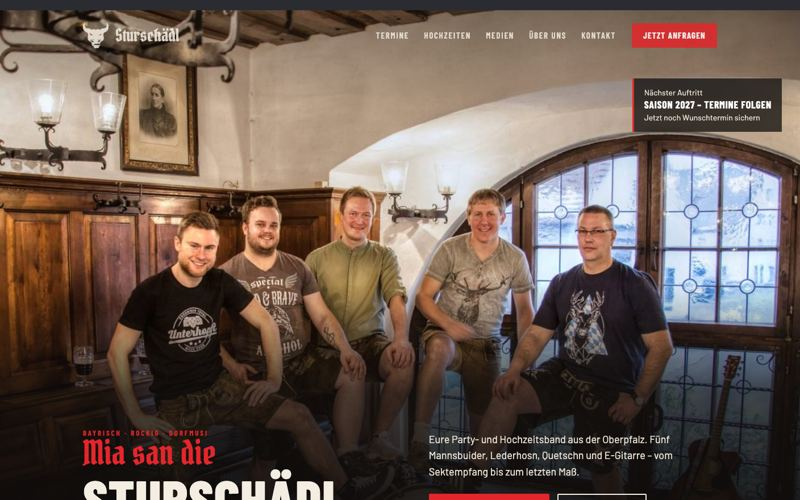
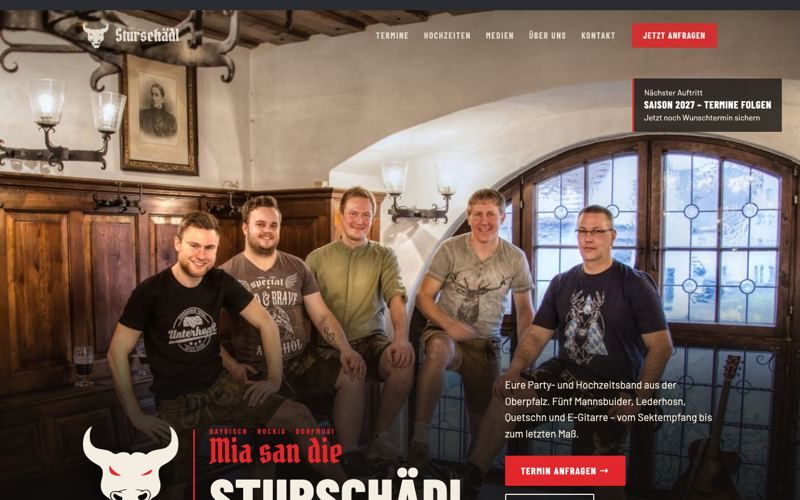
Entwurf 1: Stierschädel als Marken-Lockup neben dem Schriftzug

Changed region(s): [[0.0938, 0.75, 0.9062, 1.0]]

diff --git a/quelle/sturschaedl-mockups.html b/quelle/sturschaedl-mockups.html
@@ -68,12 +68,16 @@ section{padding:96px 0}
 .hero .bg{position:absolute;inset:0;background-size:cover;background-position:center 12%}
 .hero .bg::after{content:"";position:absolute;inset:0;background:linear-gradient(180deg,rgba(15,13,12,.35) 0%,rgba(15,13,12,0) 18%,rgba(15,13,12,0) 50%,rgba(15,13,12,.75) 70%,#0f0d0c 100%)}
 .hero .wrap{position:relative;padding-bottom:56px;width:100%}
-.hero-grid{display:grid;grid-template-columns:1.05fr .95fr;gap:48px;align-items:end}
+.hero-grid{display:grid;grid-template-columns:auto 1fr;gap:56px;align-items:end}
 .hero h1{font-size:clamp(48px,7cqi,96px)}
 .hero h1 .fr{display:block;font-size:.6em;color:var(--red);line-height:1;margin-bottom:4px}
 .hero p.lead{font-size:18px;max-width:520px;margin:0 0 24px;color:#e9e1d1}
 .hero .cta{display:flex;gap:14px;flex-wrap:wrap}
 .hero .bull{display:none}
+/* Marken-Lockup: Stierschädel + Schriftzug, sitzt unter den Gesichtern */
+.lockup{display:flex;align-items:center;gap:26px}
+.lockup .emb{width:clamp(110px,12cqi,168px);flex:none;filter:drop-shadow(0 14px 30px rgba(0,0,0,.75))}
+.lockup .rule{width:3px;align-self:stretch;margin:6px 0;background:var(--red);flex:none}
 .next-gig{position:absolute;right:32px;top:120px;background:rgba(15,13,12,.75);backdrop-filter:blur(6px);border-left:3px solid var(--red);padding:14px 18px;font-size:14px;color:#e9e1d1}
 .next-gig strong{display:block;font:700 18px/1.2 "Barlow Condensed";text-transform:uppercase;color:#fff;letter-spacing:.04em}
 
@@ -212,6 +216,7 @@ form.f{display:grid;grid-template-columns:1fr 1fr;gap:16px;background:var(--card
   .next-gig{margin:14px 18px 0;top:auto}
   .hero .bg::after{background:linear-gradient(180deg,rgba(15,13,12,.5) 0%,rgba(15,13,12,0) 25%,rgba(15,13,12,0) 75%,#0f0d0c 100%)}
   .hero-grid{grid-template-columns:1fr;gap:20px}
+  .lockup{gap:14px}.lockup .emb{width:78px}.lockup .rule{width:2px}
   .hero p.lead{font-size:17px}
   .hero .wrap{padding:6px 18px 48px}
   .next-gig{position:relative;right:auto;top:auto;margin-top:22px}
@@ -302,9 +307,13 @@ form.f{display:grid;grid-template-columns:1fr 1fr;gap:16px;background:var(--card
     <div class="bg" style="background-image:url(assets/band-wirtshaus.jpg)"></div>
     <div class="next-gig">Nächster Auftritt<strong>Saison 2027 – Termine folgen</strong>Jetzt noch Wunschtermin sichern</div>
     <div class="wrap"><div class="hero-grid">
-      <div>
-        <div class="kicker">Bayrisch · Rockig · Dorfmusi</div>
-        <h1><span class="fr">Mia san die</span>Sturschädl</h1>
+      <div class="lockup">
+        <img class="emb" src="assets/bulle-hell.png" alt="Sturschädl-Stier">
+        <span class="rule"></span>
+        <div>
+          <div class="kicker">Bayrisch · Rockig · Dorfmusi</div>
+          <h1><span class="fr">Mia san die</span>Sturschädl</h1>
+        </div>
       </div>
       <div>
         <p class="lead">Eure Party- und Hochzeitsband aus der Oberpfalz. Fünf Mannsbuider, Lederhosn, Quetschn und E-Gitarre – vom Sektempfang bis zum letzten Maß.</p>

diff --git a/sturschaedl-entwurf-1-bierzelt-nacht.html b/sturschaedl-entwurf-1-bierzelt-nacht.html
@@ -70,12 +70,16 @@ section{padding:96px 0}
 .hero .bg{position:absolute;inset:0;background-size:cover;background-position:center 12%}
 .hero .bg::after{content:"";position:absolute;inset:0;background:linear-gradient(180deg,rgba(15,13,12,.35) 0%,rgba(15,13,12,0) 18%,rgba(15,13,12,0) 50%,rgba(15,13,12,.75) 70%,#0f0d0c 100%)}
 .hero .wrap{position:relative;padding-bottom:56px;width:100%}
-.hero-grid{display:grid;grid-template-columns:1.05fr .95fr;gap:48px;align-items:end}
+.hero-grid{display:grid;grid-template-columns:auto 1fr;gap:56px;align-items:end}
 .hero h1{font-size:clamp(48px,7cqi,96px)}
 .hero h1 .fr{display:block;font-size:.6em;color:var(--red);line-height:1;margin-bottom:4px}
 .hero p.lead{font-size:18px;max-width:520px;margin:0 0 24px;color:#e9e1d1}
 .hero .cta{display:flex;gap:14px;flex-wrap:wrap}
 .hero .bull{display:none}
+/* Marken-Lockup: Stierschädel + Schriftzug, sitzt unter den Gesichtern */
+.lockup{display:flex;align-items:center;gap:26px}
+.lockup .emb{width:clamp(110px,12cqi,168px);flex:none;filter:drop-shadow(0 14px 30px rgba(0,0,0,.75))}
+.lockup .rule{width:3px;align-self:stretch;margin:6px 0;background:var(--red);flex:none}
 .next-gig{position:absolute;right:32px;top:120px;background:rgba(15,13,12,.75);backdrop-filter:blur(6px);border-left:3px solid var(--red);padding:14px 18px;font-size:14px;color:#e9e1d1}
 .next-gig strong{display:block;font:700 18px/1.2 var(--fh);text-transform:uppercase;color:#fff;letter-spacing:.04em}
 
@@ -214,6 +218,7 @@ form.f{display:grid;grid-template-columns:1fr 1fr;gap:16px;background:var(--card
   .next-gig{margin:14px 18px 0;top:auto}
   .hero .bg::after{background:linear-gradient(180deg,rgba(15,13,12,.5) 0%,rgba(15,13,12,0) 25%,rgba(15,13,12,0) 75%,#0f0d0c 100%)}
   .hero-grid{grid-template-columns:1fr;gap:20px}
+  .lockup{gap:14px}.lockup .emb{width:78px}.lockup .rule{width:2px}
   .hero p.lead{font-size:17px}
   .hero .wrap{padding:6px 18px 48px}
   .next-gig{position:relative;right:auto;top:auto;margin-top:22px}
@@ -302,9 +307,13 @@ form.f{display:grid;grid-template-columns:1fr 1fr;gap:16px;background:var(--card
     <div class="bg" style="background-image:var(--i-band-wirtshaus-jpg)"></div>
     <div class="next-gig">Nächster Auftritt<strong>Saison 2027 – Termine folgen</strong>Jetzt noch Wunschtermin sichern</div>
     <div class="wrap"><div class="hero-grid">
-      <div>
-        <div class="kicker">Bayrisch · Rockig · Dorfmusi</div>
-        <h1><span class="fr">Mia san die</span>Sturschädl</h1>
+      <div class="lockup">
+        <img class="emb" data-img="bulle-hell.png" alt="Sturschädl-Stier">
+        <span class="rule"></span>
+        <div>
+          <div class="kicker">Bayrisch · Rockig · Dorfmusi</div>
+          <h1><span class="fr">Mia san die</span>Sturschädl</h1>
+        </div>
       </div>
       <div>
         <p class="lead">Eure Party- und Hochzeitsband aus der Oberpfalz. Fünf Mannsbuider, Lederhosn, Quetschn und E-Gitarre – vom Sektempfang bis zum letzten Maß.</p>

diff --git a/sturschaedl-entwurf-2-wirtshaus.html b/sturschaedl-entwurf-2-wirtshaus.html
@@ -70,12 +70,16 @@ section{padding:96px 0}
 .hero .bg{position:absolute;inset:0;background-size:cover;background-position:center 12%}
 .hero .bg::after{content:"";position:absolute;inset:0;background:linear-gradient(180deg,rgba(15,13,12,.35) 0%,rgba(15,13,12,0) 18%,rgba(15,13,12,0) 50%,rgba(15,13,12,.75) 70%,#0f0d0c 100%)}
 .hero .wrap{position:relative;padding-bottom:56px;width:100%}
-.hero-grid{display:grid;grid-template-columns:1.05fr .95fr;gap:48px;align-items:end}
+.hero-grid{display:grid;grid-template-columns:auto 1fr;gap:56px;align-items:end}
 .hero h1{font-size:clamp(48px,7cqi,96px)}
 .hero h1 .fr{display:block;font-size:.6em;color:var(--red);line-height:1;margin-bottom:4px}
 .hero p.lead{font-size:18px;max-width:520px;margin:0 0 24px;color:#e9e1d1}
 .hero .cta{display:flex;gap:14px;flex-wrap:wrap}
 .hero .bull{display:none}
+/* Marken-Lockup: Stierschädel + Schriftzug, sitzt unter den Gesichtern */
+.lockup{display:flex;align-items:center;gap:26px}
+.lockup .emb{width:clamp(110px,12cqi,168px);flex:none;filter:drop-shadow(0 14px 30px rgba(0,0,0,.75))}
+.lockup .rule{width:3px;align-self:stretch;margin:6px 0;background:var(--red);flex:none}
 .next-gig{position:absolute;right:32px;top:120px;background:rgba(15,13,12,.75);backdrop-filter:blur(6px);border-left:3px solid var(--red);padding:14px 18px;font-size:14px;color:#e9e1d1}
 .next-gig strong{display:block;font:700 18px/1.2 var(--fh);text-transform:uppercase;color:#fff;letter-spacing:.04em}
 
@@ -214,6 +218,7 @@ form.f{display:grid;grid-template-columns:1fr 1fr;gap:16px;background:var(--card
   .next-gig{margin:14px 18px 0;top:auto}
   .hero .bg::after{background:linear-gradient(180deg,rgba(15,13,12,.5) 0%,rgba(15,13,12,0) 25%,rgba(15,13,12,0) 75%,#0f0d0c 100%)}
   .hero-grid{grid-template-columns:1fr;gap:20px}
+  .lockup{gap:14px}.lockup .emb{width:78px}.lockup .rule{width:2px}
   .hero p.lead{font-size:17px}
   .hero .wrap{padding:6px 18px 48px}
   .next-gig{position:relative;right:auto;top:auto;margin-top:22px}

diff --git a/sturschaedl-entwurf-3-rock-n-raute.html b/sturschaedl-entwurf-3-rock-n-raute.html
@@ -70,12 +70,16 @@ section{padding:96px 0}
 .hero .bg{position:absolute;inset:0;background-size:cover;background-position:center 12%}
 .hero .bg::after{content:"";position:absolute;inset:0;background:linear-gradient(180deg,rgba(15,13,12,.35) 0%,rgba(15,13,12,0) 18%,rgba(15,13,12,0) 50%,rgba(15,13,12,.75) 70%,#0f0d0c 100%)}
 .hero .wrap{position:relative;padding-bottom:56px;width:100%}
-.hero-grid{display:grid;grid-template-columns:1.05fr .95fr;gap:48px;align-items:end}
+.hero-grid{display:grid;grid-template-columns:auto 1fr;gap:56px;align-items:end}
 .hero h1{font-size:clamp(48px,7cqi,96px)}
 .hero h1 .fr{display:block;font-size:.6em;color:var(--red);line-height:1;margin-bottom:4px}
 .hero p.lead{font-size:18px;max-width:520px;margin:0 0 24px;color:#e9e1d1}
 .hero .cta{display:flex;gap:14px;flex-wrap:wrap}
 .hero .bull{display:none}
+/* Marken-Lockup: Stierschädel + Schriftzug, sitzt unter den Gesichtern */
+.lockup{display:flex;align-items:center;gap:26px}
+.lockup .emb{width:clamp(110px,12cqi,168px);flex:none;filter:drop-shadow(0 14px 30px rgba(0,0,0,.75))}
+.lockup .rule{width:3px;align-self:stretch;margin:6px 0;background:var(--red);flex:none}
 .next-gig{position:absolute;right:32px;top:120px;background:rgba(15,13,12,.75);backdrop-filter:blur(6px);border-left:3px solid var(--red);padding:14px 18px;font-size:14px;color:#e9e1d1}
 .next-gig strong{display:block;font:700 18px/1.2 var(--fh);text-transform:uppercase;color:#fff;letter-spacing:.04em}
 
@@ -214,6 +218,7 @@ form.f{display:grid;grid-template-columns:1fr 1fr;gap:16px;background:var(--card
   .next-gig{margin:14px 18px 0;top:auto}
   .hero .bg::after{background:linear-gradient(180deg,rgba(15,13,12,.5) 0%,rgba(15,13,12,0) 25%,rgba(15,13,12,0) 75%,#0f0d0c 100%)}
   .hero-grid{grid-template-columns:1fr;gap:20px}
+  .lockup{gap:14px}.lockup .emb{width:78px}.lockup .rule{width:2px}
   .hero p.lead{font-size:17px}
   .hero .wrap{padding:6px 18px 48px}
   .next-gig{position:relative;right:auto;top:auto;margin-top:22px}

diff --git a/sturschaedl-entwurf-4-festplakat.html b/sturschaedl-entwurf-4-festplakat.html
@@ -70,12 +70,16 @@ section{padding:96px 0}
 .hero .bg{position:absolute;inset:0;background-size:cover;background-position:center 12%}
 .hero .bg::after{content:"";position:absolute;inset:0;background:linear-gradient(180deg,rgba(15,13,12,.35) 0%,rgba(15,13,12,0) 18%,rgba(15,13,12,0) 50%,rgba(15,13,12,.75) 70%,#0f0d0c 100%)}
 .hero .wrap{position:relative;padding-bottom:56px;width:100%}
-.hero-grid{display:grid;grid-template-columns:1.05fr .95fr;gap:48px;align-items:end}
+.hero-grid{display:grid;grid-template-columns:auto 1fr;gap:56px;align-items:end}
 .hero h1{font-size:clamp(48px,7cqi,96px)}
 .hero h1 .fr{display:block;font-size:.6em;color:var(--red);line-height:1;margin-bottom:4px}
 .hero p.lead{font-size:18px;max-width:520px;margin:0 0 24px;color:#e9e1d1}
 .hero .cta{display:flex;gap:14px;flex-wrap:wrap}
 .hero .bull{display:none}
+/* Marken-Lockup: Stierschädel + Schriftzug, sitzt unter den Gesichtern */
+.lockup{display:flex;align-items:center;gap:26px}
+.lockup .emb{width:clamp(110px,12cqi,168px);flex:none;filter:drop-shadow(0 14px 30px rgba(0,0,0,.75))}
+.lockup .rule{width:3px;align-self:stretch;margin:6px 0;background:var(--red);flex:none}
 .next-gig{position:absolute;right:32px;top:120px;background:rgba(15,13,12,.75);backdrop-filter:blur(6px);border-left:3px solid var(--red);padding:14px 18px;font-size:14px;color:#e9e1d1}
 .next-gig strong{display:block;font:700 18px/1.2 var(--fh);text-transform:uppercase;color:#fff;letter-spacing:.04em}
 
@@ -214,6 +218,7 @@ form.f{display:grid;grid-template-columns:1fr 1fr;gap:16px;background:var(--card
   .next-gig{margin:14px 18px 0;top:auto}
   .hero .bg::after{background:linear-gradient(180deg,rgba(15,13,12,.5) 0%,rgba(15,13,12,0) 25%,rgba(15,13,12,0) 75%,#0f0d0c 100%)}
   .hero-grid{grid-template-columns:1fr;gap:20px}
+  .lockup{gap:14px}.lockup .emb{width:78px}.lockup .rule{width:2px}
   .hero p.lead{font-size:17px}
   .hero .wrap{padding:6px 18px 48px}
   .next-gig{position:relative;right:auto;top:auto;margin-top:22px}

diff --git a/sturschaedl-entwurf-5-hochzeit-elegant.html b/sturschaedl-entwurf-5-hochzeit-elegant.html
@@ -70,12 +70,16 @@ section{padding:96px 0}
 .hero .bg{position:absolute;inset:0;background-size:cover;background-position:center 12%}
 .hero .bg::after{content:"";position:absolute;inset:0;background:linear-gradient(180deg,rgba(15,13,12,.35) 0%,rgba(15,13,12,0) 18%,rgba(15,13,12,0) 50%,rgba(15,13,12,.75) 70%,#0f0d0c 100%)}
 .hero .wrap{position:relative;padding-bottom:56px;width:100%}
-.hero-grid{display:grid;grid-template-columns:1.05fr .95fr;gap:48px;align-items:end}
+.hero-grid{display:grid;grid-template-columns:auto 1fr;gap:56px;align-items:end}
 .hero h1{font-size:clamp(48px,7cqi,96px)}
 .hero h1 .fr{display:block;font-size:.6em;color:var(--red);line-height:1;margin-bottom:4px}
 .hero p.lead{font-size:18px;max-width:520px;margin:0 0 24px;color:#e9e1d1}
 .hero .cta{display:flex;gap:14px;flex-wrap:wrap}
 .hero .bull{display:none}
+/* Marken-Lockup: Stierschädel + Schriftzug, sitzt unter den Gesichtern */
+.lockup{display:flex;align-items:center;gap:26px}
+.lockup .emb{width:clamp(110px,12cqi,168px);flex:none;filter:drop-shadow(0 14px 30px rgba(0,0,0,.75))}
+.lockup .rule{width:3px;align-self:stretch;margin:6px 0;background:var(--red);flex:none}
 .next-gig{position:absolute;right:32px;top:120px;background:rgba(15,13,12,.75);backdrop-filter:blur(6px);border-left:3px solid var(--red);padding:14px 18px;font-size:14px;color:#e9e1d1}
 .next-gig strong{display:block;font:700 18px/1.2 var(--fh);text-transform:uppercase;color:#fff;letter-spacing:.04em}
 
@@ -214,6 +218,7 @@ form.f{display:grid;grid-template-columns:1fr 1fr;gap:16px;background:var(--card
   .next-gig{margin:14px 18px 0;top:auto}
   .hero .bg::after{background:linear-gradient(180deg,rgba(15,13,12,.5) 0%,rgba(15,13,12,0) 25%,rgba(15,13,12,0) 75%,#0f0d0c 100%)}
   .hero-grid{grid-template-columns:1fr;gap:20px}
+  .lockup{gap:14px}.lockup .emb{width:78px}.lockup .rule{width:2px}
   .hero p.lead{font-size:17px}
   .hero .wrap{padding:6px 18px 48px}
   .next-gig{position:relative;right:auto;top:auto;margin-top:22px}
